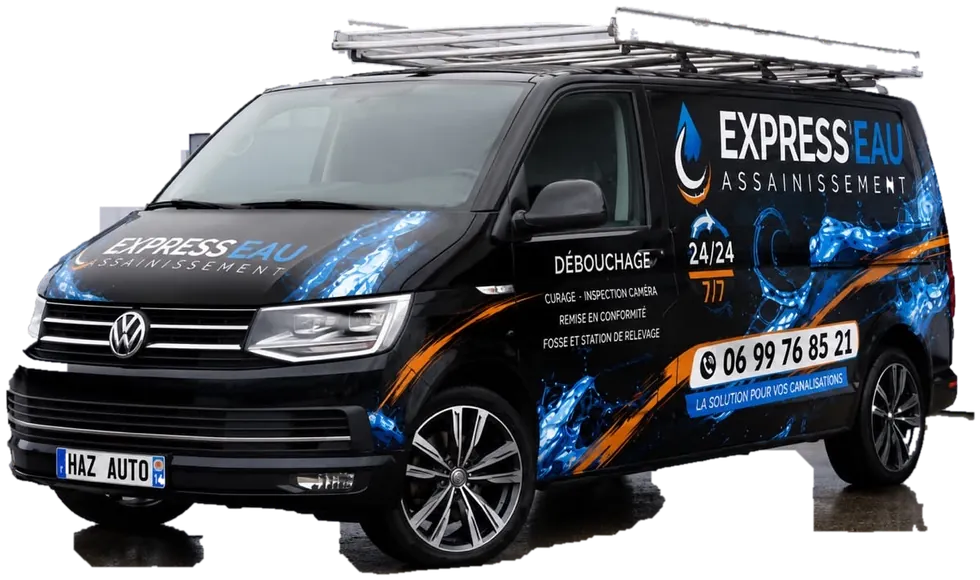
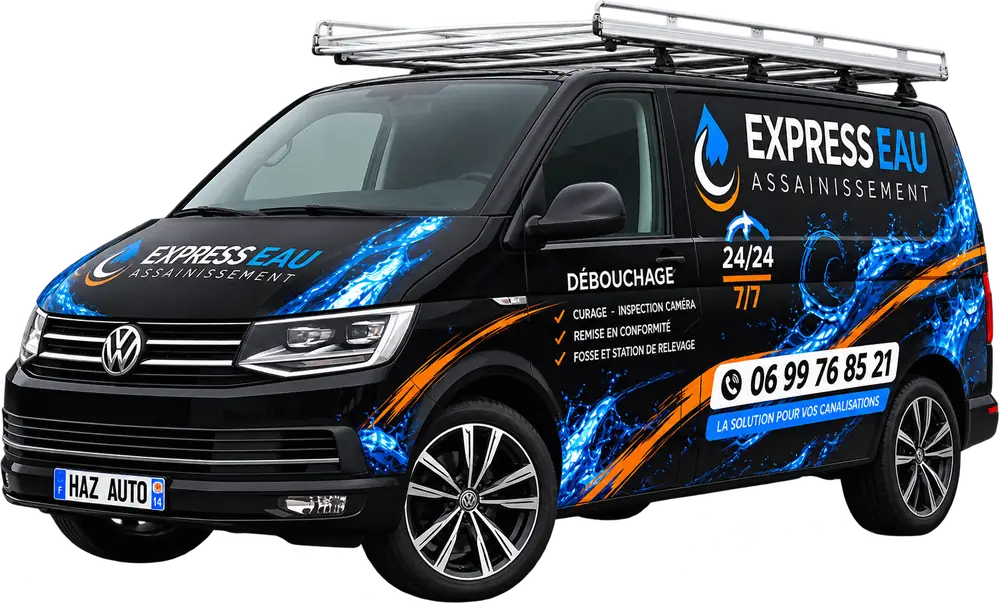
Charte alignee sur la livree du camion: bleu eau, orange, badge 24-24 7-7, bandeau bleu

diff --git a/index.html b/index.html
@@ -9,15 +9,16 @@
 <link href="https://fonts.googleapis.com/css2?family=Anton&family=IBM+Plex+Mono:wght@400;600&family=IBM+Plex+Sans:wght@400;500;600;700&display=swap" rel="stylesheet">
 <style>
 :root{
-  --orange:#E85D32;
-  --vif:#FF6B2C;
-  --bleu:#1B9BD8;
-  --noir:#0A0B0C;
-  --gris:#141619;
-  --gris2:#1E2126;
-  --blanc:#F7F7F5;
-  --fume:rgba(247,247,245,.62);
-  --ligne:rgba(247,247,245,.13);
+  --orange:#F67A05;
+  --vif:#FF9226;
+  --bleu:#0B8CF3;
+  --bleu2:#4FB4FF;
+  --noir:#05080C;
+  --gris:#0B1119;
+  --gris2:#121A24;
+  --blanc:#F5F8FA;
+  --fume:rgba(245,248,250,.62);
+  --ligne:rgba(120,180,235,.16);
   --d:'Anton',Impact,sans-serif;
   --b:'IBM Plex Sans',system-ui,sans-serif;
   --m:'IBM Plex Mono',monospace;
@@ -45,15 +46,28 @@ header.solid{background:rgba(10,11,12,.92);backdrop-filter:blur(12px);border-col
 .nav ul{display:flex;gap:24px;list-style:none;margin-left:auto;font-size:.87rem;font-weight:500}
 .nav ul a{padding-bottom:3px;border-bottom:2px solid transparent}
 .nav ul a:hover{border-color:var(--orange)}
-.tel{display:inline-flex;align-items:center;gap:9px;background:var(--orange);color:#fff;font-weight:700;padding:11px 18px;font-size:.93rem;white-space:nowrap;transform:skewX(-8deg)}
-.tel span{transform:skewX(8deg);display:inline-flex;align-items:center;gap:8px}
-.tel:hover{background:var(--vif)}
-.tel svg{width:15px;height:15px;fill:currentColor}
+.tel{display:inline-flex;align-items:center;gap:9px;background:#fff;color:#05080C;font-weight:700;padding:11px 20px;font-size:.95rem;white-space:nowrap;border-radius:999px;letter-spacing:.01em}
+.tel span{display:inline-flex;align-items:center;gap:9px}
+.tel:hover{background:var(--bleu);color:#fff}
+.tel svg{width:19px;height:19px;fill:none;stroke:currentColor;stroke-width:1.6}
+
+/* badge 24/24 7/7 de la carrosserie */
+.b247{display:inline-block;text-align:center;font-family:var(--d);line-height:1;letter-spacing:.02em}
+.b247 u{display:block;text-decoration:none;color:#fff;font-size:1.5rem}
+.b247 s{display:block;text-decoration:none;color:var(--orange);font-size:1.5rem;border-top:3px solid var(--orange);margin-top:5px;padding-top:5px}
+/* bandeau bleu de la carrosserie */
+.tagline{display:inline-block;background:var(--bleu);color:#fff;font-family:var(--m);font-size:.68rem;letter-spacing:.2em;text-transform:uppercase;padding:8px 18px;transform:skewX(-12deg)}
+.tagline b{display:block;transform:skewX(12deg);font-weight:400}
+/* eclaboussure diagonale */
+.slash{height:78px;position:relative;overflow:hidden;background:var(--noir)}
+.slash:before,.slash:after{content:"";position:absolute;left:-10%;width:120%;height:26px;transform:rotate(-3.5deg)}
+.slash:before{top:8px;background:linear-gradient(90deg,transparent,var(--bleu) 22%,var(--bleu2) 55%,transparent);opacity:.55;filter:blur(1px)}
+.slash:after{top:38px;height:12px;background:linear-gradient(90deg,transparent,var(--orange) 35%,var(--vif) 60%,transparent);opacity:.9}
 
 /* ======== 1. arrivée ======== */
 #arrivee{height:340vh;position:relative}
 .stage{position:sticky;top:0;height:100vh;overflow:hidden;background:
-   radial-gradient(120% 80% at 50% 100%,#1a1d21 0%,#0A0B0C 62%)}
+   radial-gradient(120% 80% at 50% 100%,#0d2135 0%,#05080C 64%)}
 .stars{position:absolute;inset:0;background-image:radial-gradient(1px 1px at 20% 18%,rgba(255,255,255,.35),transparent),radial-gradient(1px 1px at 70% 12%,rgba(255,255,255,.25),transparent),radial-gradient(1px 1px at 44% 26%,rgba(255,255,255,.18),transparent);opacity:.8}
 .road{position:absolute;left:50%;bottom:0;width:190%;height:56%;transform:translateX(-50%);
   background:linear-gradient(#101215,#05060700);perspective:340px;overflow:hidden}
@@ -62,20 +76,20 @@ header.solid{background:rgba(10,11,12,.92);backdrop-filter:blur(12px);border-col
   -webkit-mask-image:linear-gradient(transparent,#000 45%);mask-image:linear-gradient(transparent,#000 45%);
   animation:dash 1.05s linear infinite}
 @keyframes dash{to{background-position:0 108px}}
-.halo{position:absolute;left:50%;top:58%;width:120vmin;height:120vmin;transform:translate(-50%,-50%);
-  background:radial-gradient(circle,rgba(232,93,50,.30),rgba(232,93,50,0) 62%);opacity:0;pointer-events:none}
+.halo{position:absolute;left:50%;top:58%;width:130vmin;height:130vmin;transform:translate(-50%,-50%);
+  background:radial-gradient(circle,rgba(11,140,243,.34),rgba(11,140,243,0) 62%);opacity:0;pointer-events:none}
 .beams{position:absolute;left:50%;top:52%;width:150vmin;height:90vmin;transform:translate(-50%,-30%);opacity:0;
   background:radial-gradient(ellipse 60% 40% at 50% 50%,rgba(255,240,200,.22),transparent 70%);pointer-events:none;filter:blur(6px)}
 .vanwrap{position:absolute;left:50%;top:57%;width:min(1060px,94vw);transform:translate(-50%,-50%);will-change:transform}
 .vanwrap img{width:100%;filter:drop-shadow(0 40px 60px rgba(0,0,0,.75))}
 .speed{position:absolute;inset:0;pointer-events:none;opacity:0}
-.speed i{position:absolute;height:2px;background:linear-gradient(90deg,transparent,rgba(255,255,255,.5));animation:zip .5s linear infinite}
+.speed i{position:absolute;height:2px;background:linear-gradient(90deg,transparent,rgba(79,180,255,.75));animation:zip .5s linear infinite}
 @keyframes zip{from{transform:translateX(30vw)}to{transform:translateX(-110vw)}}
 
 .phases{position:absolute;left:0;right:0;top:14vh;text-align:center;padding:0 5vw;pointer-events:none}
 .ph{position:absolute;left:0;right:0;opacity:0;transform:translateY(24px);transition:opacity .45s,transform .45s}
 .ph.on{opacity:1;transform:none}
-.ph .mono{color:var(--orange);display:block;margin-bottom:14px}
+.ph .mono{color:var(--bleu2);display:block;margin-bottom:14px}
 .ph .big{font-size:clamp(2.4rem,8.4vw,6.6rem)}
 .ph p{color:var(--fume);margin-top:14px;font-size:clamp(.95rem,1.6vw,1.15rem)}
 .ph .tel{pointer-events:auto;margin-top:26px;font-size:1.1rem;padding:15px 26px}
@@ -86,7 +100,7 @@ header.solid{background:rgba(10,11,12,.92);backdrop-filter:blur(12px);border-col
 
 /* ======== marquee ======== */
 .band{background:var(--orange);color:#0A0B0C;padding:16px 0;overflow:hidden;white-space:nowrap;border-top:3px solid #0A0B0C;border-bottom:3px solid #0A0B0C}
-.band.dark{background:var(--noir);color:var(--blanc);border-color:var(--orange)}
+.band.dark{background:var(--bleu);color:#fff;border-color:#05080C}
 .band div{display:inline-block;animation:mq 26s linear infinite;font-family:var(--d);font-size:clamp(1.2rem,2.6vw,1.9rem);text-transform:uppercase;letter-spacing:.02em}
 .band.rev div{animation-direction:reverse}
 .band em{font-style:normal;color:#fff;-webkit-text-stroke:0}
@@ -96,12 +110,12 @@ header.solid{background:rgba(10,11,12,.92);backdrop-filter:blur(12px);border-col
 /* ======== chiffres ======== */
 .stats{display:grid;grid-template-columns:repeat(4,1fr);gap:1px;background:var(--ligne);border-block:1px solid var(--ligne)}
 .stat{background:var(--noir);padding:34px 24px}
-.stat b{display:block;font-family:var(--d);font-size:clamp(2.2rem,5vw,3.6rem);color:var(--orange);line-height:1}
+.stat b{display:block;font-family:var(--d);font-size:clamp(2.2rem,5vw,3.6rem);color:var(--bleu2);line-height:1}
 .stat span{font-size:.86rem;color:var(--fume)}
 
 /* ======== sections génériques ======== */
 .head{margin-bottom:44px}
-.head .mono{color:var(--orange);display:block;margin-bottom:16px}
+.head .mono{color:var(--bleu2);display:block;margin-bottom:16px}
 .lead{max-width:56ch;color:var(--fume);margin-top:18px;font-size:1.03rem}
 .split{display:grid;grid-template-columns:1fr 1fr;gap:clamp(28px,5vw,72px);align-items:center}
 
@@ -109,8 +123,8 @@ header.solid{background:rgba(10,11,12,.92);backdrop-filter:blur(12px);border-col
 .cmp{position:relative;overflow:hidden;background:#000;aspect-ratio:1/.98;border:1px solid var(--ligne)}
 .cmp img{position:absolute;inset:0;width:100%;height:100%;object-fit:cover}
 .cmp .after{clip-path:inset(0 0 0 var(--x,50%))}
-.cmp .bar{position:absolute;top:0;bottom:0;left:var(--x,50%);width:2px;background:var(--orange);pointer-events:none}
-.cmp .bar:after{content:"↔";position:absolute;top:50%;left:50%;transform:translate(-50%,-50%);width:44px;height:44px;border-radius:50%;background:var(--orange);color:#0A0B0C;display:grid;place-items:center;font-size:1.1rem;font-weight:700}
+.cmp .bar{position:absolute;top:0;bottom:0;left:var(--x,50%);width:2px;background:var(--bleu2);pointer-events:none}
+.cmp .bar:after{content:"↔";position:absolute;top:50%;left:50%;transform:translate(-50%,-50%);width:44px;height:44px;border-radius:50%;background:var(--bleu);color:#fff;display:grid;place-items:center;font-size:1.1rem;font-weight:700}
 .cmp input{position:absolute;inset:0;width:100%;height:100%;opacity:0;cursor:ew-resize;margin:0}
 .cmp label{position:absolute;bottom:14px;font-family:var(--m);font-size:.66rem;letter-spacing:.16em;text-transform:uppercase;background:rgba(10,11,12,.8);padding:6px 10px}
 .cmp .l1{left:14px}.cmp .l2{right:14px;color:var(--orange)}
@@ -118,7 +132,9 @@ header.solid{background:rgba(10,11,12,.92);backdrop-filter:blur(12px);border-col
 /* liste */
 .plist{list-style:none;margin-top:26px}
 .plist li{padding:15px 0;border-bottom:1px solid var(--ligne);display:flex;gap:16px;align-items:baseline}
-.plist i{font-style:normal;font-family:var(--m);font-size:.7rem;color:var(--orange);letter-spacing:.1em}
+.plist.check li{gap:14px}
+.plist i{font-style:normal;font-family:var(--m);font-size:.7rem;color:var(--orange);letter-spacing:.1em;font-weight:600}
+.plist.check li:before{content:"\2713";color:var(--orange);font-weight:700;font-size:1.05rem;line-height:1}
 .plist span{color:var(--fume);font-size:.94rem}
 
 /* parallaxe photo */
@@ -132,24 +148,24 @@ header.solid{background:rgba(10,11,12,.92);backdrop-filter:blur(12px);border-col
 .simgrid{display:grid;grid-template-columns:1fr 1fr;gap:2px;background:var(--ligne);border:1px solid var(--ligne);margin-top:44px}
 .panel{background:var(--noir);padding:clamp(24px,3vw,38px)}
 .q{margin-bottom:26px}
-.q>label{display:block;font-family:var(--m);font-size:.66rem;letter-spacing:.14em;text-transform:uppercase;color:var(--orange);margin-bottom:11px}
+.q>label{display:block;font-family:var(--m);font-size:.66rem;letter-spacing:.14em;text-transform:uppercase;color:var(--bleu2);margin-bottom:11px}
 .opts{display:flex;flex-wrap:wrap;gap:8px}
 .opt{border:1px solid var(--ligne);background:transparent;color:var(--fume);padding:9px 14px;font-family:var(--b);font-size:.86rem;cursor:pointer;transition:.18s}
-.opt:hover{border-color:var(--orange);color:#fff}
-.opt[aria-pressed="true"]{background:var(--orange);border-color:var(--orange);color:#0A0B0C;font-weight:600}
+.opt:hover{border-color:var(--bleu);color:#fff}
+.opt[aria-pressed="true"]{background:var(--bleu);border-color:var(--bleu);color:#fff;font-weight:600}
 .opt:focus-visible{outline:2px solid var(--bleu);outline-offset:2px}
 .schema{background:#08090A;border:1px solid var(--ligne);margin-bottom:22px}
 .schema svg{width:100%;height:auto;display:block}
-.filiere{font-family:var(--m);font-size:.66rem;letter-spacing:.14em;text-transform:uppercase;color:var(--bleu);margin-bottom:6px}
+.filiere{font-family:var(--m);font-size:.66rem;letter-spacing:.14em;text-transform:uppercase;color:var(--orange);margin-bottom:6px}
 .detail{list-style:none;margin:20px 0;border-top:1px solid var(--ligne)}
 .detail li{display:flex;justify-content:space-between;gap:14px;padding:9px 0;border-bottom:1px solid var(--ligne);font-size:.86rem;color:var(--fume)}
 .detail li b{font-family:var(--m);font-weight:600;color:var(--blanc);text-align:right}
 .chiffre{font-family:var(--d);font-size:clamp(2.1rem,5.4vw,3.4rem);line-height:1}
 .chiffre small{display:block;font-family:var(--m);font-size:.66rem;letter-spacing:.14em;color:rgba(247,247,245,.45);text-transform:uppercase;margin-bottom:8px}
 .mention{font-size:.75rem;color:rgba(247,247,245,.4);margin-top:12px;line-height:1.5}
-.cta{display:flex;align-items:center;justify-content:center;gap:10px;background:var(--orange);color:#0A0B0C;border:0;padding:16px;width:100%;font-family:var(--b);font-weight:700;font-size:1rem;cursor:pointer;margin-top:10px}
+.cta{display:flex;align-items:center;justify-content:center;gap:10px;background:var(--orange);color:#fff;border:0;padding:16px;width:100%;font-family:var(--b);font-weight:700;font-size:1rem;cursor:pointer;margin-top:10px}
 .cta:hover{background:var(--vif);color:#fff}
-.sent{background:var(--bleu);color:#04141d;padding:14px;margin-top:12px;font-size:.87rem;font-weight:600;display:none}
+.sent{background:var(--bleu);color:#fff;padding:14px;margin-top:12px;font-size:.87rem;font-weight:600;display:none}
 .sent.on{display:block}
 
 /* ======== caméra ======== */
@@ -167,21 +183,21 @@ header.solid{background:rgba(10,11,12,.92);backdrop-filter:blur(12px);border-col
 .tar{width:100%;border-collapse:collapse;font-size:.94rem}
 .tar td{padding:15px 6px;border-bottom:1px solid var(--ligne)}
 .tar tr:first-child td{border-top:1px solid var(--ligne)}
-.tar td:last-child{text-align:right;font-family:var(--m);font-weight:600;white-space:nowrap;color:var(--orange)}
+.tar td:last-child{text-align:right;font-family:var(--m);font-weight:600;white-space:nowrap;color:var(--bleu2)}
 .tar .z td{color:var(--fume);font-size:.87rem}
 .tar .z td:last-child{color:var(--fume)}
 
 /* ======== zones ======== */
 .villes{display:grid;grid-template-columns:repeat(5,1fr);gap:1px;background:var(--ligne);border:1px solid var(--ligne);margin-top:36px}
 .ville{background:var(--noir);padding:16px 14px;font-size:.9rem;font-weight:500;transition:.2s}
-.ville:hover{background:var(--orange);color:#0A0B0C}
+.ville:hover{background:var(--bleu);color:#fff}
 .ville i{display:block;font-style:normal;font-family:var(--m);font-size:.6rem;letter-spacing:.1em;color:var(--fume);margin-top:3px}
-.ville:hover i{color:rgba(10,11,12,.7)}
+.ville:hover i{color:rgba(255,255,255,.75)}
 
 /* ======== avis ======== */
 .avis{display:grid;grid-template-columns:repeat(3,1fr);gap:20px}
 .avis blockquote{background:var(--gris);border:1px solid var(--ligne);padding:26px;display:flex;flex-direction:column;gap:14px}
-.stars{color:var(--orange);letter-spacing:3px}
+.stars{color:var(--orange);letter-spacing:3px;font-size:1rem}
 .avis p{font-size:.93rem;color:rgba(247,247,245,.85)}
 .avis cite{margin-top:auto;font-style:normal;font-family:var(--m);font-size:.64rem;letter-spacing:.14em;text-transform:uppercase;color:var(--fume)}
 
@@ -191,8 +207,8 @@ header.solid{background:rgba(10,11,12,.92);backdrop-filter:blur(12px);border-col
 .field input,.field textarea,.field select{width:100%;background:var(--gris2);border:1px solid var(--ligne);color:var(--blanc);padding:13px;font-family:var(--b);font-size:.95rem}
 .field input:focus,.field textarea:focus,.field select:focus{outline:2px solid var(--orange);outline-offset:-1px}
 .two{display:grid;grid-template-columns:1fr 1fr;gap:12px}
-.coord{border-left:2px solid var(--orange);padding-left:20px;margin-bottom:24px}
-.coord .mono{color:var(--orange);margin-bottom:4px}
+.coord{border-left:2px solid var(--bleu);padding-left:20px;margin-bottom:24px}
+.coord .mono{color:var(--bleu2);margin-bottom:4px}
 .coord a{font-family:var(--m);font-size:1.15rem;font-weight:600}
 .coord p{color:var(--fume);font-size:.92rem}
 
@@ -200,8 +216,8 @@ footer{background:#050607;color:var(--fume);padding:44px 0 110px;font-size:.85re
 .fg{display:flex;justify-content:space-between;gap:24px;flex-wrap:wrap}
 
 /* ======== chat ======== */
-.chat-btn{position:fixed;right:20px;bottom:24px;z-index:80;width:58px;height:58px;border-radius:50%;background:var(--bleu);border:0;cursor:pointer;display:grid;place-items:center;box-shadow:0 10px 30px rgba(0,0,0,.5)}
-.chat-btn svg{width:26px;height:26px;fill:#04141d}
+.chat-btn{position:fixed;right:20px;bottom:24px;z-index:80;width:58px;height:58px;border-radius:50%;background:var(--bleu);border:0;cursor:pointer;display:grid;place-items:center;box-shadow:0 10px 34px rgba(11,140,243,.45)}
+.chat-btn svg{width:26px;height:26px;fill:#fff}
 .chat-btn:after{content:"1";position:absolute;top:-2px;right:-2px;width:20px;height:20px;border-radius:50%;background:var(--orange);color:#fff;font-family:var(--m);font-size:.68rem;display:grid;place-items:center}
 .chat-box{position:fixed;right:20px;bottom:94px;z-index:81;width:min(340px,90vw);background:var(--gris);border:1px solid var(--ligne);display:none;flex-direction:column;overflow:hidden;box-shadow:0 24px 60px rgba(0,0,0,.6)}
 .chat-box.on{display:flex}
@@ -212,14 +228,14 @@ footer{background:#050607;color:var(--fume);padding:44px 0 110px;font-size:.85re
 .chat-body{padding:16px;display:flex;flex-direction:column;gap:10px;max-height:240px;overflow-y:auto}
 .msg{padding:10px 13px;font-size:.86rem;max-width:86%}
 .msg.them{background:var(--gris2)}
-.msg.me{background:var(--orange);color:#0A0B0C;align-self:flex-end;font-weight:500}
+.msg.me{background:var(--bleu);color:#fff;align-self:flex-end;font-weight:500}
 .quick{display:flex;flex-wrap:wrap;gap:6px;padding:12px 16px;border-top:1px solid var(--ligne)}
 .quick button{border:1px solid var(--ligne);background:transparent;color:var(--fume);padding:7px 11px;font-size:.77rem;cursor:pointer;font-family:var(--b)}
 .quick button:hover{border-color:var(--bleu);color:var(--bleu)}
 
 .mobibar{position:fixed;left:0;right:0;bottom:0;z-index:90;display:none;background:var(--noir);border-top:1px solid var(--ligne)}
 .mobibar a{flex:1;padding:15px 8px;text-align:center;font-weight:700;font-size:.92rem}
-.mobibar a.call{background:var(--orange);color:#0A0B0C}
+.mobibar a.call{background:var(--orange);color:#fff}
 
 .rv{opacity:0;transform:translateY(26px);transition:opacity .8s cubic-bezier(.2,.7,.3,1),transform .8s cubic-bezier(.2,.7,.3,1)}
 .rv.in{opacity:1;transform:none}
@@ -254,7 +270,7 @@ footer{background:#050607;color:var(--fume);padding:44px 0 110px;font-size:.85re
       <li><a href="#tarifs">Tarifs</a></li>
       <li><a href="#zones">Zones</a></li>
     </ul>
-    <a class="tel" href="tel:0699768521"><span><svg viewBox="0 0 24 24"><path d="M6.6 10.8c1.4 2.8 3.8 5.1 6.6 6.6l2.2-2.2c.3-.3.7-.4 1-.2 1.2.4 2.4.6 3.6.6.6 0 1 .4 1 1V20c0 .6-.4 1-1 1C10.6 21 3 13.4 3 4c0-.6.4-1 1-1h3.5c.6 0 1 .4 1 1 0 1.3.2 2.5.6 3.6.1.4 0 .8-.2 1l-2.3 2.2z"/></svg>06 99 76 85 21</span></a>
+    <a class="tel" href="tel:0699768521"><span><svg viewBox="0 0 24 24"><circle cx="12" cy="12" r="10"/><path d="M8.6 8.2c.9 1.9 2.4 3.4 4.3 4.3l1.2-1.2c.2-.2.5-.3.8-.2.6.2 1.2.3 1.9.3.3 0 .5.2.5.5v1.9c0 .3-.2.5-.5.5-4.9 0-8.9-4-8.9-8.9 0-.3.2-.5.5-.5h1.9c.3 0 .5.2.5.5 0 .7.1 1.3.3 1.9.1.3 0 .6-.2.8l-1.3 1.2z" fill="currentColor" stroke="none"/></svg>06 99 76 85 21</span></a>
   </nav>
 </header>
 
@@ -287,8 +303,12 @@ footer{background:#050607;color:var(--fume);padding:44px 0 110px;font-size:.85re
       <div class="ph" id="p3">
         <span class="mono">23 h 32</span>
         <div class="big">On est là.</div>
-        <p>Débouchage, curage, inspection caméra et assainissement. Var et Bouches-du-Rhône, 24 h/24.</p>
-        <a class="tel" href="tel:0699768521"><span>06 99 76 85 21</span></a>
+        <p>Débouchage, curage, inspection caméra et assainissement. Var et Bouches-du-Rhône.</p>
+        <div style="display:flex;gap:18px;align-items:center;justify-content:center;flex-wrap:wrap;margin-top:24px">
+          <span class="b247"><u>24/24</u><s>7/7</s></span>
+          <a class="tel" href="tel:0699768521" style="font-size:1.15rem;padding:15px 26px"><span><svg viewBox="0 0 24 24"><circle cx="12" cy="12" r="10"/><path d="M8.6 8.2c.9 1.9 2.4 3.4 4.3 4.3l1.2-1.2c.2-.2.5-.3.8-.2.6.2 1.2.3 1.9.3.3 0 .5.2.5.5v1.9c0 .3-.2.5-.5.5-4.9 0-8.9-4-8.9-8.9 0-.3.2-.5.5-.5h1.9c.3 0 .5.2.5.5 0 .7.1 1.3.3 1.9.1.3 0 .6-.2.8l-1.3 1.2z" fill="currentColor" stroke="none"/></svg>06 99 76 85 21</span></a>
+        </div>
+        <div style="margin-top:20px"><span class="tagline"><b>La solution pour vos canalisations</b></span></div>
       </div>
     </div>
 
@@ -296,6 +316,7 @@ footer{background:#050607;color:var(--fume);padding:44px 0 110px;font-size:.85re
   </div>
 </section>
 
+<div class="slash"></div>
 <div class="band"><div id="mq1"></div></div>
 
 <section class="sec" style="padding-top:0;padding-bottom:0">
@@ -313,14 +334,14 @@ footer{background:#050607;color:var(--fume);padding:44px 0 110px;font-size:.85re
     <div class="rv">
       <div class="head">
         <span class="mono">Curage et hydrocurage</span>
-        <h2>On ne débouche pas.<br><span class="skew" style="color:var(--orange)">On rouvre.</span></h2>
+        <h2>On ne débouche pas.<br><span class="skew" style="color:var(--bleu2)">On rouvre.</span></h2>
       </div>
       <p class="lead">Un coup de furet fait passer l'eau une semaine. Le curage haute pression décolle le tartre, le calcaire et les racines sur toute la longueur, et rend son diamètre d'origine à la canalisation.</p>
-      <ul class="plist">
-        <li><i>01</i><span>Inspection caméra pour localiser le point exact</span></li>
-        <li><i>02</i><span>Passage hydrocureur 150 bar, buse adaptée au diamètre</span></li>
-        <li><i>03</i><span>Coupe-racines si le réseau est envahi</span></li>
-        <li><i>04</i><span>Contrôle vidéo final, vous voyez le résultat</span></li>
+      <ul class="plist check">
+        <li><span>Inspection caméra pour localiser le point exact</span></li>
+        <li><span>Passage hydrocureur 150 bar, buse adaptée au diamètre</span></li>
+        <li><span>Coupe-racines si le réseau est envahi</span></li>
+        <li><span>Contrôle vidéo final, vous voyez le résultat</span></li>
       </ul>
     </div>
     <div class="rv">
@@ -364,11 +385,13 @@ footer{background:#050607;color:var(--fume);padding:44px 0 110px;font-size:.85re
   </div>
 </section>
 
+<div class="slash"></div>
+
 <!-- ============ 4. CHANTIER ============ -->
 <div class="photo rv" id="ph-chantier">
   <img src="./img/chantier.webp" alt="Installation d'une fosse toutes eaux à la pelle mécanique">
   <div class="over wrap">
-    <span class="mono" style="color:var(--orange)">Assainissement non collectif</span>
+    <span class="mono" style="color:var(--bleu2)">Assainissement non collectif</span>
     <h2 style="max-width:16ch;margin-top:12px">Votre fosse septique,<br>posée dans les règles</h2>
   </div>
 </div>
@@ -506,7 +529,7 @@ footer{background:#050607;color:var(--fume);padding:44px 0 110px;font-size:.85re
 <div class="photo rv" id="ph-plage">
   <img src="./img/plage.webp" alt="Le camion Express'Eau en intervention sur le littoral varois">
   <div class="over wrap">
-    <span class="mono" style="color:var(--orange)">Var 83 · Bouches-du-Rhône 13</span>
+    <span class="mono" style="color:var(--bleu2)">Var 83 · Bouches-du-Rhône 13</span>
     <h2 style="margin-top:12px">Du Lavandou<br>à Aix-en-Provence</h2>
   </div>
 </div>
@@ -533,7 +556,7 @@ footer{background:#050607;color:var(--fume);padding:44px 0 110px;font-size:.85re
       <a class="ville" href="#">Aubagne<i>Zone 3</i></a>
       <a class="ville" href="#">Aix-en-Provence<i>Zone 4</i></a>
       <a class="ville" href="#">Marseille<i>Zone 4</i></a>
-      <a class="ville" href="tel:0699768521" style="background:var(--orange);color:#0A0B0C">Votre commune ?<i style="color:rgba(10,11,12,.7)">Appelez-nous</i></a>
+      <a class="ville" href="tel:0699768521" style="background:var(--bleu);color:#fff">Votre commune ?<i style="color:rgba(255,255,255,.8)">Appelez-nous</i></a>
     </div>
   </div>
 </section>
@@ -543,7 +566,7 @@ footer{background:#050607;color:var(--fume);padding:44px 0 110px;font-size:.85re
   <div class="wrap">
     <div class="head rv">
       <span class="mono">Tarifs TTC</span>
-      <h2>Les prix sont<br><span class="skew" style="color:var(--orange)">affichés.</span></h2>
+      <h2>Les prix sont<br><span class="skew" style="color:var(--bleu2)">affichés.</span></h2>
       <p class="lead">Le montant vous est confirmé au téléphone avant le déplacement. Si le chantier se révèle plus lourd sur place, on vous le dit avant de sortir le matériel, pas sur la facture.</p>
     </div>
     <table class="tar rv">
@@ -598,7 +621,7 @@ footer{background:#050607;color:var(--fume);padding:44px 0 110px;font-size:.85re
       </div>
       <div class="two">
         <div class="field"><label>Commune</label><input type="text" placeholder="Toulon"></div>
-        <div class="field"><label>Motif</label><select><option>Canalisation bouchée</option><option>Curage de réseau</option><option>Inspection caméra</option><option>Fosse septique</option><option>Travaux de réseau</option></select></div>
+        <div class="field"><label>Motif</label><select><option>Canalisation bouchée</option><option>Curage de réseau</option><option>Inspection caméra</option><option>Fosse septique</option><option>Travaux de réseau</option><option>Station de relevage</option></select></div>
       </div>
       <div class="field"><label>Email</label><input type="email" placeholder="vous@email.fr"></div>
       <div class="field"><label>Ce qui se passe</label><textarea rows="4" placeholder="Depuis quand, quel appareil, est-ce que ça remonte ailleurs dans la maison"></textarea></div>
@@ -615,7 +638,7 @@ footer{background:#050607;color:var(--fume);padding:44px 0 110px;font-size:.85re
       <p style="margin-top:8px;max-width:46ch">Débouchage, curage, inspection caméra et assainissement non collectif. Var 83 et Bouches-du-Rhône 13. Intervention 24 h/24, 7 j/7.</p>
     </div>
     <div style="text-align:right">
-      <a href="tel:0699768521" style="font-family:var(--m);color:var(--orange);font-size:1.05rem;font-weight:600">06 99 76 85 21</a>
+      <a href="tel:0699768521" style="font-family:var(--m);color:var(--bleu2);font-size:1.05rem;font-weight:600">06 99 76 85 21</a>
       <p style="margin-top:8px">Mentions légales · Instagram · Facebook</p>
     </div>
   </div>
@@ -641,7 +664,7 @@ footer{background:#050607;color:var(--fume);padding:44px 0 110px;font-size:.85re
 const RM = window.matchMedia('(prefers-reduced-motion: reduce)').matches;
 
 /* ---------- marquees ---------- */
-const t1="Débouchage <span>·</span> Hydrocurage <span>·</span> Inspection caméra <span>·</span> Fosse septique <span>·</span> Coupe-racines <span>·</span> 24 h/24 <span>·</span> ";
+const t1="Débouchage <span>·</span> Curage <span>·</span> Inspection caméra <span>·</span> Remise en conformité <span>·</span> Fosse et station de relevage <span>·</span> 24/24 7/7 <span>·</span> ";
 const t2="La solution pour vos canalisations <span>·</span> Var 83 <span>·</span> Bouches-du-Rhône 13 <span>·</span> Devis gratuit <span>·</span> ";
 document.getElementById('mq1').innerHTML=t1.repeat(8);
 document.getElementById('mq2').innerHTML=t2.repeat(8);
